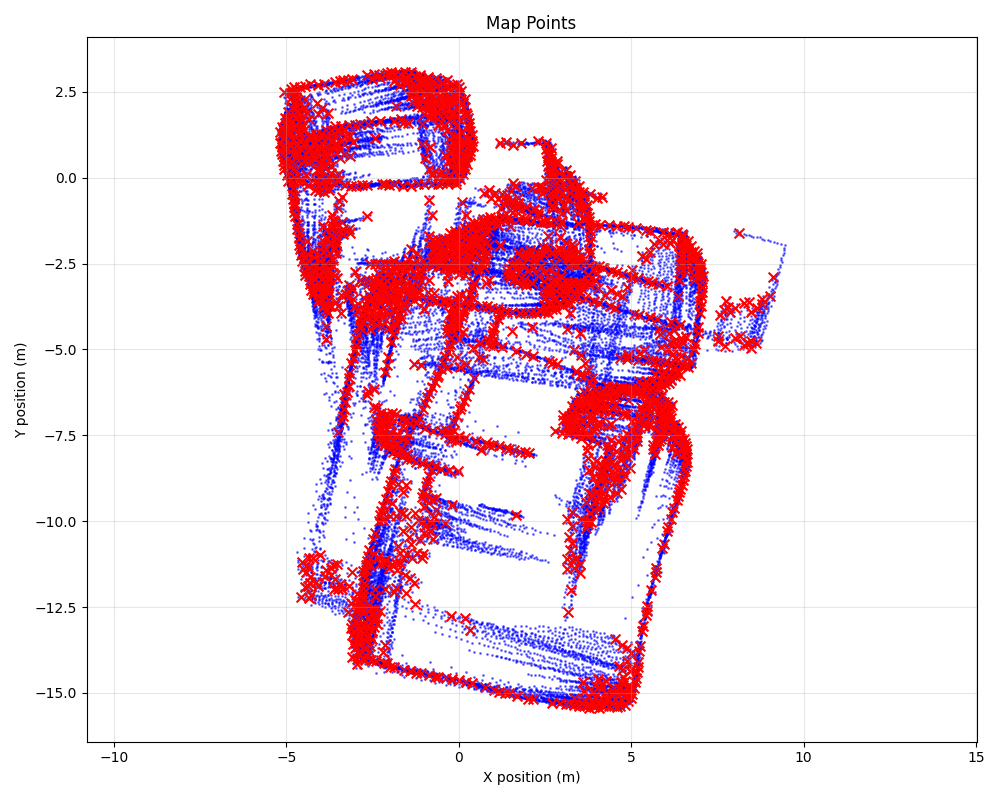
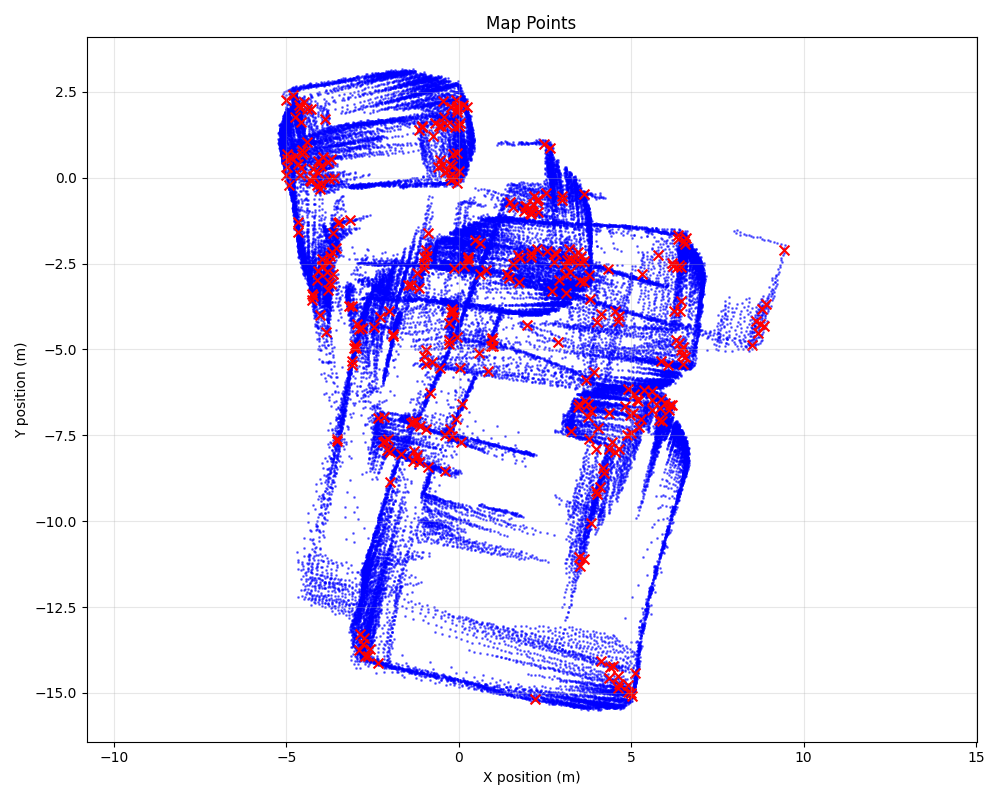
No longer smooth individual points instead use the centroid of cluster

diff --git a/src/map.py b/src/map.py
@@ -74,9 +74,9 @@ class Map:
         # Corner detection parameters
         self.angle_threshold: float    = GLOBALS.CORNER_DETECT_ANGLE_THRESHOLD        # [degrees]
         self.distance_threshold: float = GLOBALS.CORNER_DETECT_DISTANCE_THRESHOLD     # [m]
-        self.cluster_jump_dist: float  = GLOBALS.CORNER_DETECT_CLUSTER_JUMP_DISTANCE  # [m]
+
         self.use_clustering: bool      = GLOBALS.CORNER_DETECT_USE_CLUSTERING         # Enable clustering
-        self.smooth_window_size: int   = GLOBALS.CORNER_DETECT_SMOOTH_WINDOW_SIZE     # Smoothing window size
+        self.cluster_jump_dist: float  = GLOBALS.CORNER_DETECT_CLUSTER_JUMP_DISTANCE  # [m]
 
     def compute_points_position(self, robot_homo_matrix: np.ndarray, lidar_ranges: np.ndarray, lidar_angles: np.ndarray, scan_idx: int) -> None:
         scan_points_world_frame: list[Point] = []
@@ -109,10 +109,10 @@ class Map:
             self.compute_corners(scan_points_world_frame, scan_idx, use_clustering=self.use_clustering)
 
     def compute_corners(self, scan_points: list[Point], scan_idx: int, use_clustering: bool = True):
-        """Cluster -> Smooth -> Detect Angles"""
+        """Cluster -> Average -> Smooth -> Detect Angles"""
         
         # Prepare clusters
-        clusters: list[list[Point]]  = []
+        clusters: list[list[Point]] = []
         cluster_min_size: int = 5
 
         if use_clustering:
@@ -148,99 +148,86 @@ class Map:
             ## DEBUG
             # print(f"[Map](compute_corners) Processing entire scan as single cluster (use_clustering={use_clustering}).")
 
-        # Smoothing and Detection per cluster
+        # Compute cluster centroids
+        cluster_centroids: list[tuple[float, float]] = []
+        for cluster in clusters:
+            if len(cluster) >= cluster_min_size:
+                # Average x and y coordinates
+                avg_x = sum(p.x for p in cluster) / len(cluster)
+                avg_y = sum(p.y for p in cluster) / len(cluster)
+                cluster_centroids.append((avg_x, avg_y))
+
+        # If no centroids, return early
+        if len(cluster_centroids) < 3:
+            return
+
+        # Detect Angles with descriptor computation
         detected_corners: list = []
 
-        for cluster in clusters:
-            # Check minimum size
-            if len(cluster) < cluster_min_size: 
+        for i in range(1, len(cluster_centroids) - 1):
+            prev_x, prev_y = cluster_centroids[i-1]
+            curr_x, curr_y = cluster_centroids[i]
+            next_x, next_y = cluster_centroids[i+1]
+
+            # Vector 1: Prev -> Curr
+            v1_x = curr_x - prev_x
+            v1_y = curr_y - prev_y
+            
+            # Vector 2: Curr -> Next
+            v2_x = next_x - curr_x
+            v2_y = next_y - curr_y
+
+            # Magnitudes
+            mag_v1 = math.sqrt(v1_x**2 + v1_y**2)
+            mag_v2 = math.sqrt(v2_x**2 + v2_y**2)
+
+            if mag_v1 == 0 or mag_v2 == 0:
                 continue
 
-            # Manual Smoothing
-            smoothed_coords = []
+            # Dot product
+            dot_product = (v1_x * v2_x) + (v1_y * v2_y)
             
-            for i in range(len(cluster)):
-                # Skip extreme edges
-                half_window = self.smooth_window_size // 2
-                if i < half_window or i >= len(cluster) - half_window:
-                    smoothed_coords.append((cluster[i].x, cluster[i].y))
-                else:
-                    # Moving average with variable window size
-                    start_idx = i - half_window
-                    end_idx   = i + half_window + 1
-                    
-                    sum_x, sum_y = 0.0, 0.0
-                    for j in range(start_idx, end_idx):
-                        sum_x += cluster[j].x
-                        sum_y += cluster[j].y
-                    
-                    smoothed_coords.append((sum_x / self.smooth_window_size, sum_y / self.smooth_window_size))
+            # Cosine rule
+            cos_angle = max(-1.0, min(1.0, dot_product / (mag_v1 * mag_v2)))
+            angle_rad = math.acos(cos_angle)
+            angle_deg = math.degrees(angle_rad)
 
-            # Detect Angles with descriptor computation
-            for i in range(1, len(smoothed_coords) - 1):
-                prev_x, prev_y = smoothed_coords[i-1]
-                curr_x, curr_y = smoothed_coords[i]
-                next_x, next_y = smoothed_coords[i+1]
+            # Compute corner descriptors from smoothed centroid neighborhood
+            median_dist, variance = self._compute_centroid_neighborhood_descriptors(cluster_centroids, i)
 
-                # Vector 1: Prev -> Curr
-                v1_x = curr_x - prev_x
-                v1_y = curr_y - prev_y
-                
-                # Vector 2: Curr -> Next
-                v2_x = next_x - curr_x
-                v2_y = next_y - curr_y
+            # Compute confidence score
+            confidence = self._compute_corner_confidence(angle_deg, variance)
 
-                # Magnitudes
-                mag_v1 = math.sqrt(v1_x**2 + v1_y**2)
-                mag_v2 = math.sqrt(v2_x**2 + v2_y**2)
-
-                if mag_v1 == 0 or mag_v2 == 0:
-                    continue
-
-                # Dot product
-                dot_product = (v1_x * v2_x) + (v1_y * v2_y)
-                
-                # Cosine rule
-                cos_angle = max(-1.0, min(1.0, dot_product / (mag_v1 * mag_v2)))
-                angle_rad = math.acos(cos_angle)
-                angle_deg = math.degrees(angle_rad)
-
-                # Compute corner descriptors
-                median_dist, variance = self._compute_neighborhood_descriptors(cluster, i)
-
-                # Compute confidence score
-                confidence = self._compute_corner_confidence(angle_deg, variance)
-
-                # Check thresholds
-                if angle_deg > self.angle_threshold and confidence > 0.5:
-                    detected_corners.append({
-                        'x': curr_x,
-                        'y': curr_y,
-                        'angle': angle_deg,
-                        'median_dist': median_dist,
-                        'variance': variance,
-                        'confidence': confidence
-                    })
+            # Check thresholds
+            if angle_deg > self.angle_threshold and confidence > GLOBALS.CORNER_DETECT_CONFIDENCE_THRESHOLD:
+                detected_corners.append({
+                    'x': curr_x,
+                    'y': curr_y,
+                    'angle': angle_deg,
+                    'median_dist': median_dist,
+                    'variance': variance,
+                    'confidence': confidence
+                })
 
         # Update Landmarks
         for corner in detected_corners:
             self._associate_and_update(corner, scan_idx)
 
-    def _compute_neighborhood_descriptors(self, cluster: list[Point], center_idx: int) -> tuple[float, float]:
-        """Compute median distance and variance of neighborhood around a point"""
+    def _compute_centroid_neighborhood_descriptors(self, centroids: list[tuple[float, float]], center_idx: int) -> tuple[float, float]:
+        """Compute median distance and variance of neighborhood around a centroid point"""
         
-        # Neighborhood radius
+        # Neighborhood radius (±2 centroids)
         start = max(0, center_idx - 2)
-        end   = min(len(cluster), center_idx + 3)
+        end   = min(len(centroids), center_idx + 3)
         
-        # Compute distances from center point
-        center_x = cluster[center_idx].x
-        center_y = cluster[center_idx].y
+        # Compute distances from center centroid
+        center_x, center_y = centroids[center_idx]
         
         distances = []
         for j in range(start, end):
             if j != center_idx:
-                d = math.sqrt((cluster[j].x - center_x)**2 + (cluster[j].y - center_y)**2)
+                cx, cy = centroids[j]
+                d = math.sqrt((cx - center_x)**2 + (cy - center_y)**2)
                 distances.append(d)
         
         if not distances:
@@ -279,13 +266,28 @@ class Map:
         """Associate detected corner with existing landmark or create new one"""
 
         best_landmark = None
-        min_dist      = self.distance_threshold
+        best_score    = float('inf')
 
-        # Find nearest landmark
+        # Find landmark with best match
         for landmark in self.landmarks:
-            d = math.sqrt((landmark.x - corner['x'])**2 + (landmark.y - corner['y'])**2)
-            if d < min_dist:
-                min_dist = d
+            # Spatial distance component
+            spatial_dist = math.sqrt((landmark.x - corner['x'])**2 + (landmark.y - corner['y'])**2)
+            
+            # Only consider landmarks within distance threshold
+            if spatial_dist > self.distance_threshold:
+                continue
+            
+            # Angle difference component
+            angle_diff = abs(landmark.angle - corner['angle'])
+            
+            # Combined score: 50% spatial distance, 50% angle similarity
+            spatial_norm = spatial_dist / self.distance_threshold  # Normalize to [0,1]
+            angle_norm   = min(1.0, angle_diff / 90.0)             # Normalize to [0,1]
+            
+            combined_score = 0.5 * spatial_norm + 0.5 * angle_norm
+            
+            if combined_score < best_score:
+                best_score = combined_score
                 best_landmark = landmark
         
         if best_landmark:
@@ -313,7 +315,7 @@ class Map:
     def plot_snapshots(self, steps: int = 10):
         """Save each scan as a snapshot showing accumulated map points."""
 
-        print(f"[Map](plot_snapshots) Saving {len(self.points_world_frame)} snapshots...")
+        print(f"[Map](plot_snapshots) Saving {len(self.points_world_frame)/steps} snapshots...")
 
         for scan_idx in range(0, len(self.points_world_frame), steps):
             plt.figure(figsize=(10, 8))

diff --git a/src/__config.py b/src/__config.py
@@ -20,8 +20,10 @@ NUM_EXAMPLE: int=300
 TASK: int=[2]
 
 # Corner Detection
-CORNER_DETECT_ANGLE_THRESHOLD: float        = 45.0  # [degrees]
-CORNER_DETECT_DISTANCE_THRESHOLD: float     = 0.1   # [m]
-CORNER_DETECT_USE_CLUSTERING: bool          = False
+CORNER_DETECT_ANGLE_THRESHOLD: float        = 30.0  # [degrees]
+CORNER_DETECT_DISTANCE_THRESHOLD: float     = 0.001   # [m]
+
+CORNER_DETECT_USE_CLUSTERING: bool          = True
 CORNER_DETECT_CLUSTER_JUMP_DISTANCE: float  = 0.1   # [m]
-CORNER_DETECT_SMOOTH_WINDOW_SIZE: int       = 3
+
+CORNER_DETECT_CONFIDENCE_THRESHOLD: float   = 0.5
